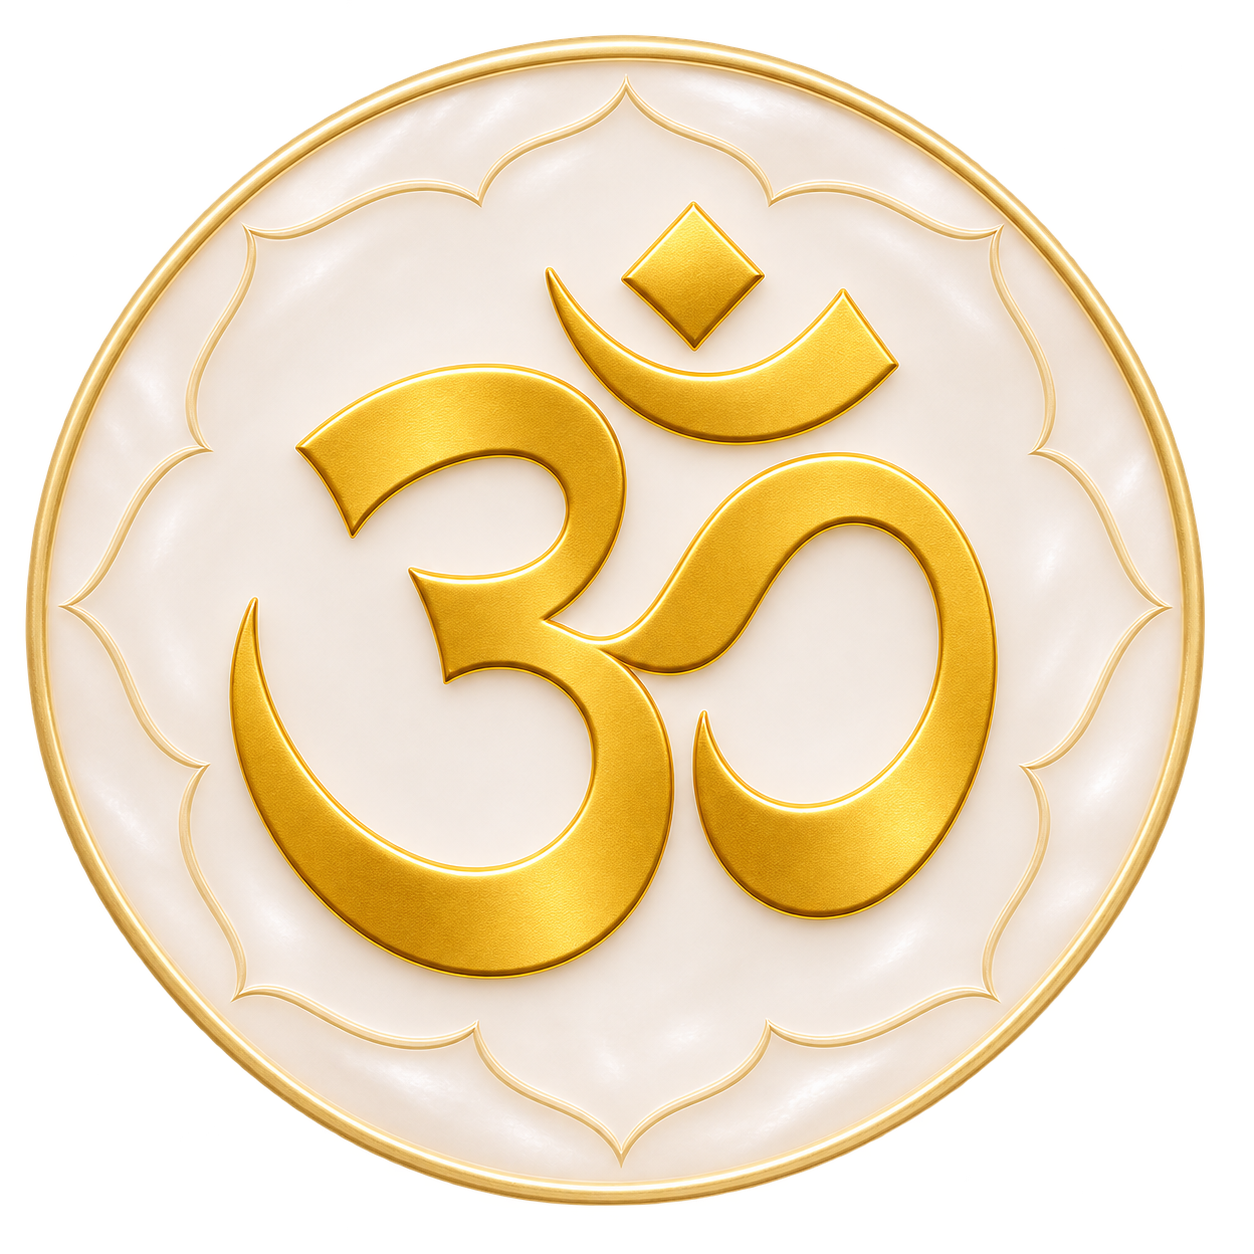
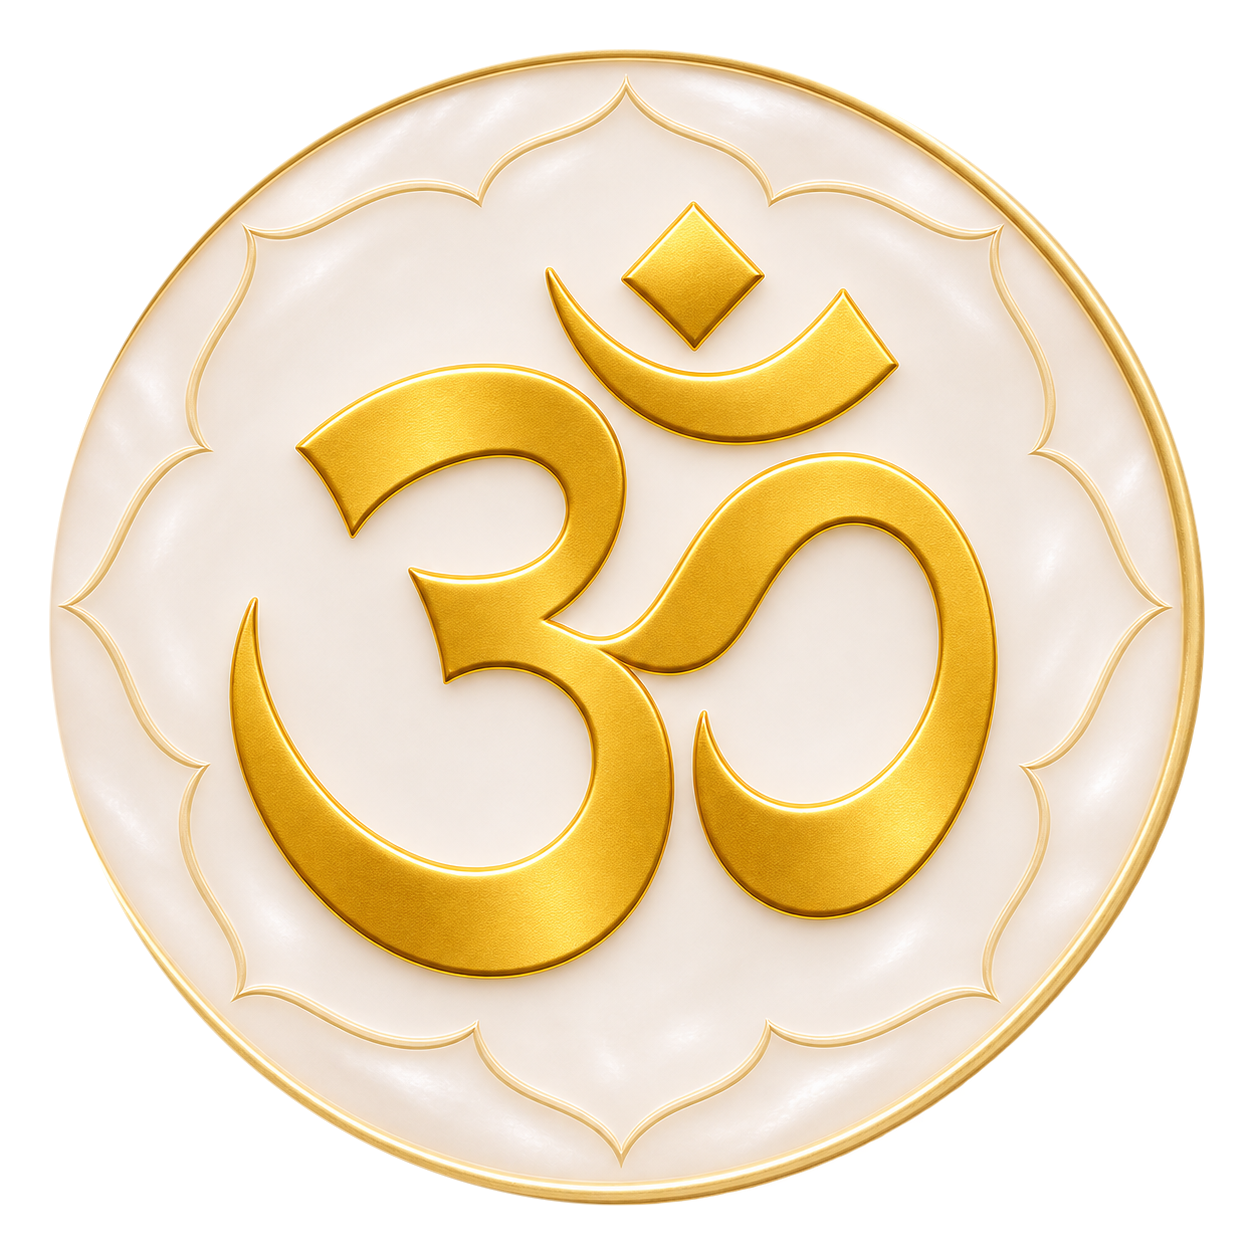
feat(pricing): feature sacred golden Om emblem on mantras pricing door

diff --git a/src/features/catalog/PricingPage.tsx b/src/features/catalog/PricingPage.tsx
@@ -48,8 +48,8 @@ function DoorColumn({ palette, door, selected, onPick }: { palette: Palette; doo
       {door.id === 'mantras' && (
         <div style={{ borderRadius: 16, overflow: 'hidden', border: `1px solid ${palette.BORDER}`, margin: '2px 0 2px', boxShadow: '0 6px 18px rgba(0,0,0,0.06)' }}>
           <img
-            src="/marketing/mantras/altar-9-mantras.webp"
-            alt="9 Sacred Mantras Golden Altar Tablet"
+            src={palette.isDark ? '/marketing/mantras/om-altar-mauve.webp' : '/marketing/mantras/om-altar-ivory.webp'}
+            alt="Sacred Golden Om Lotus Emblem"
             width={1024}
             height={576}
             style={{ width: '100%', height: 'auto', display: 'block', objectFit: 'cover' }}
